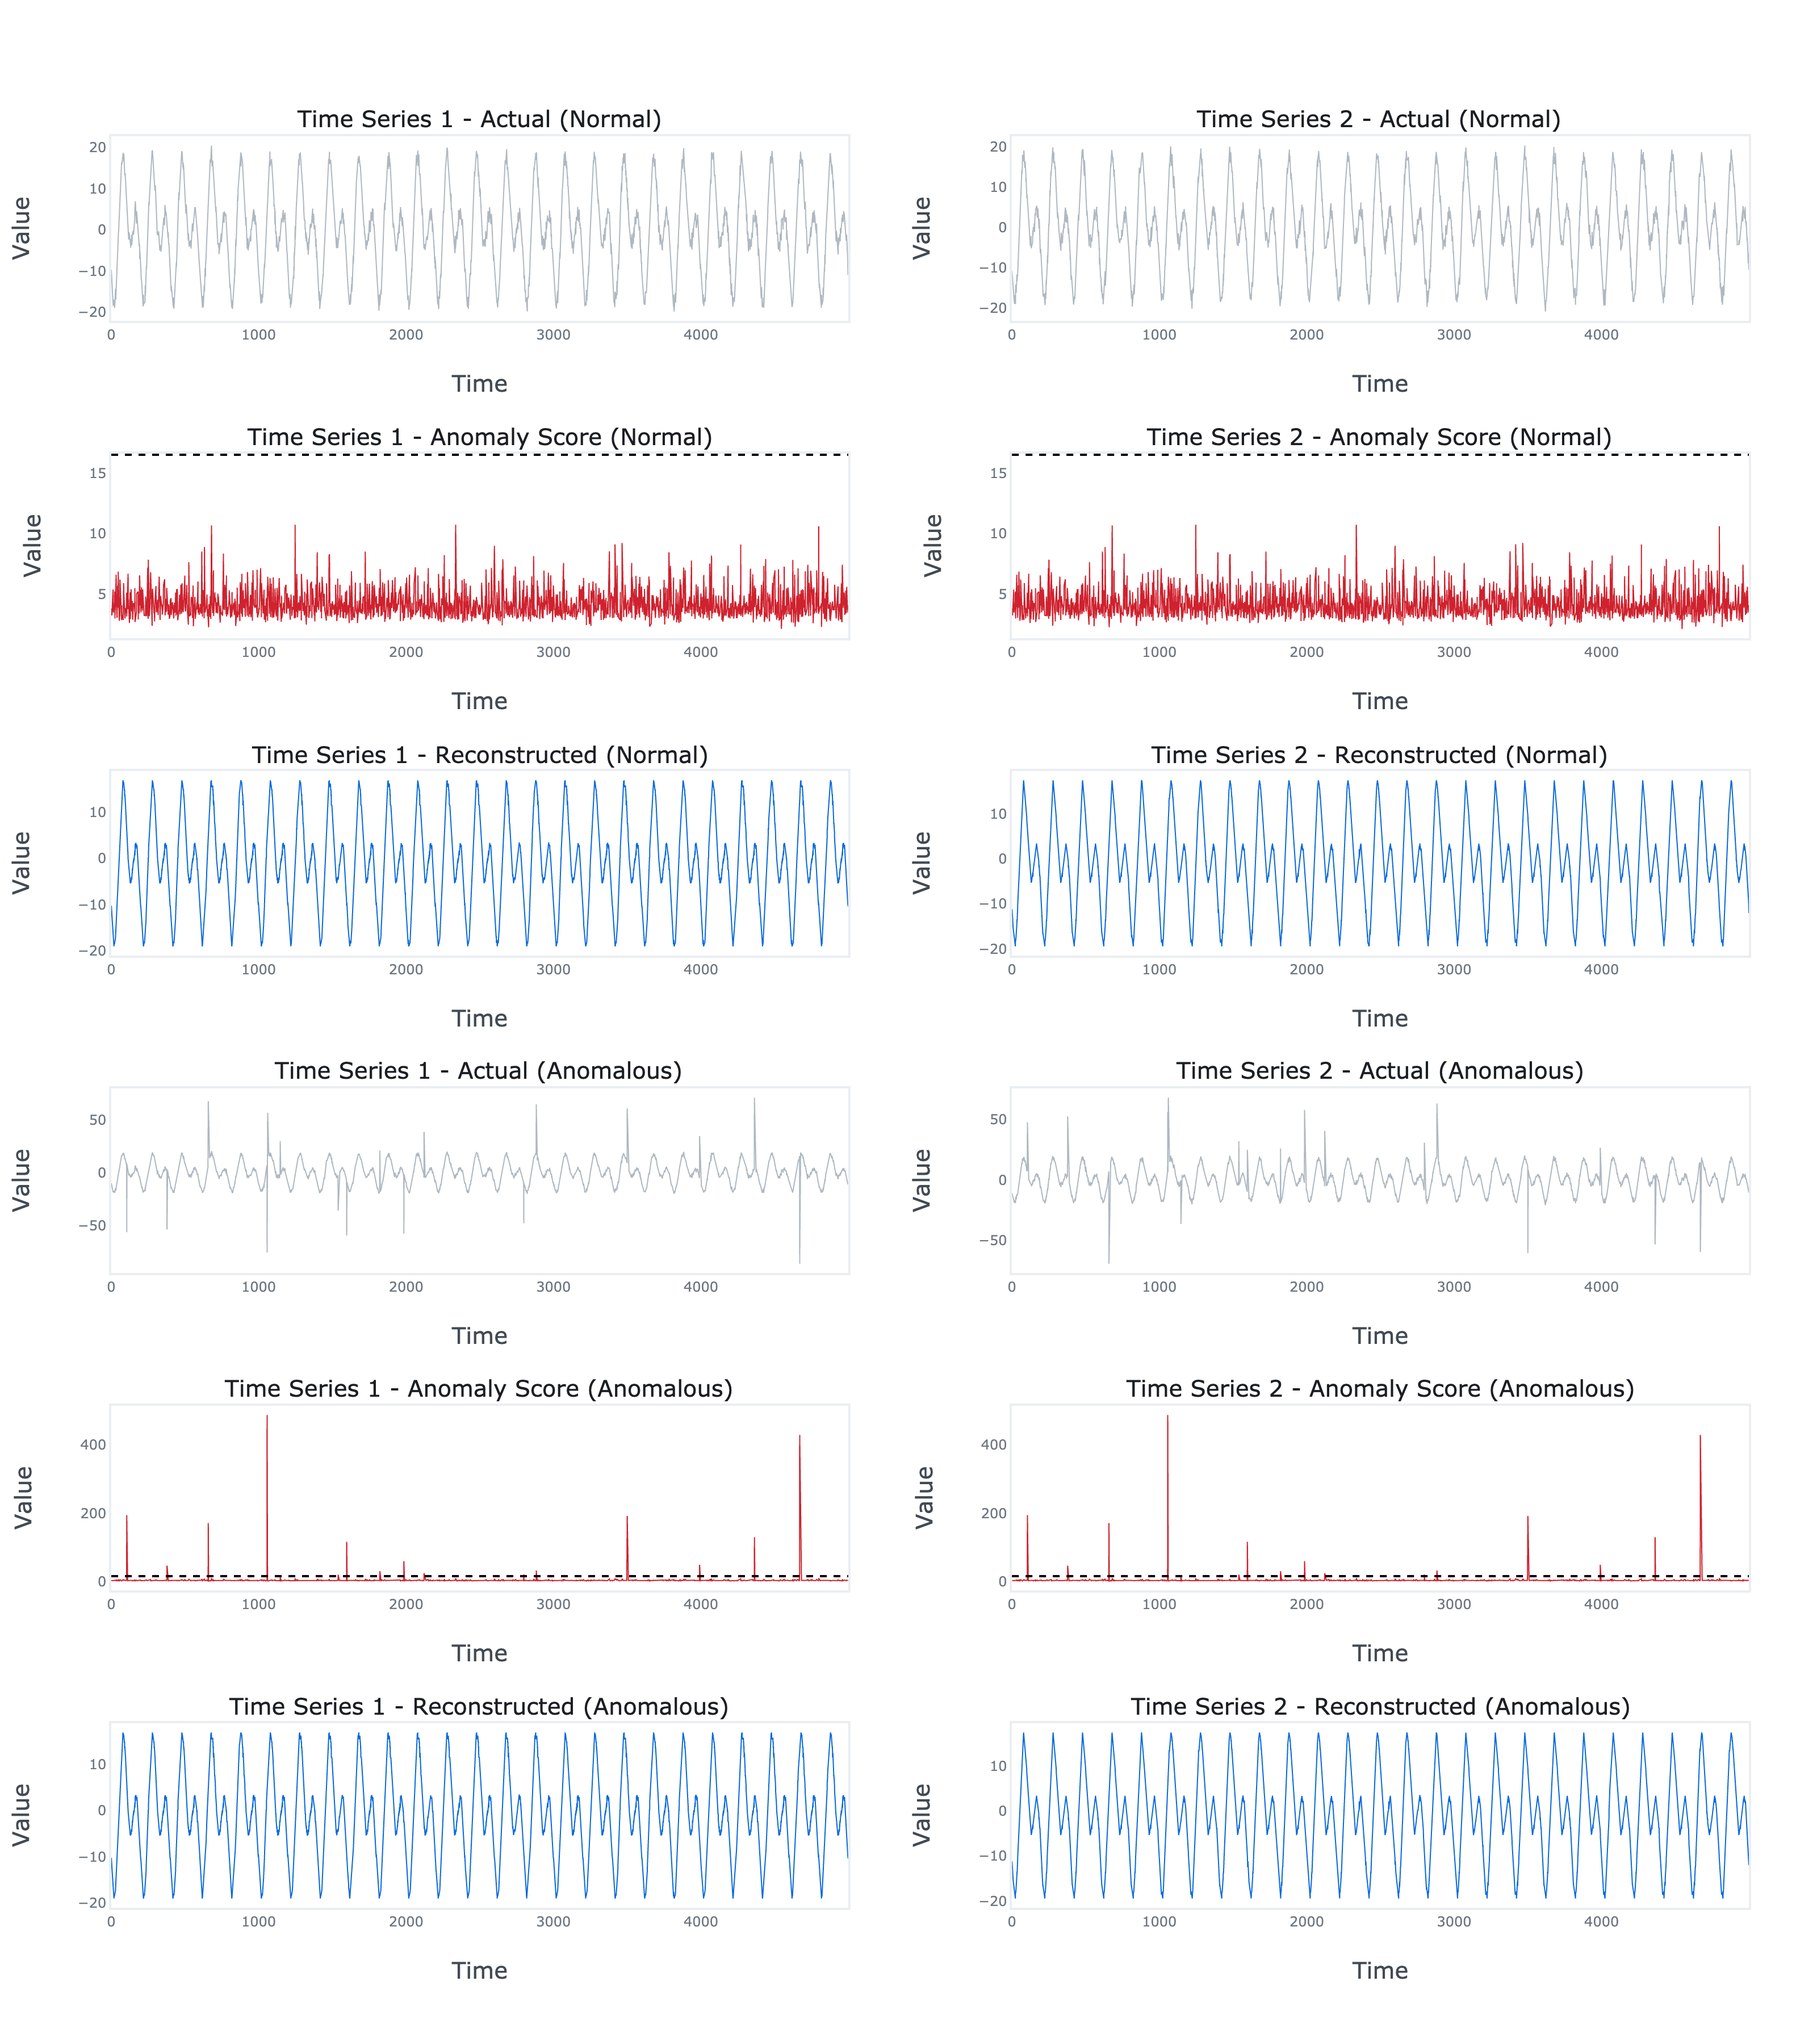
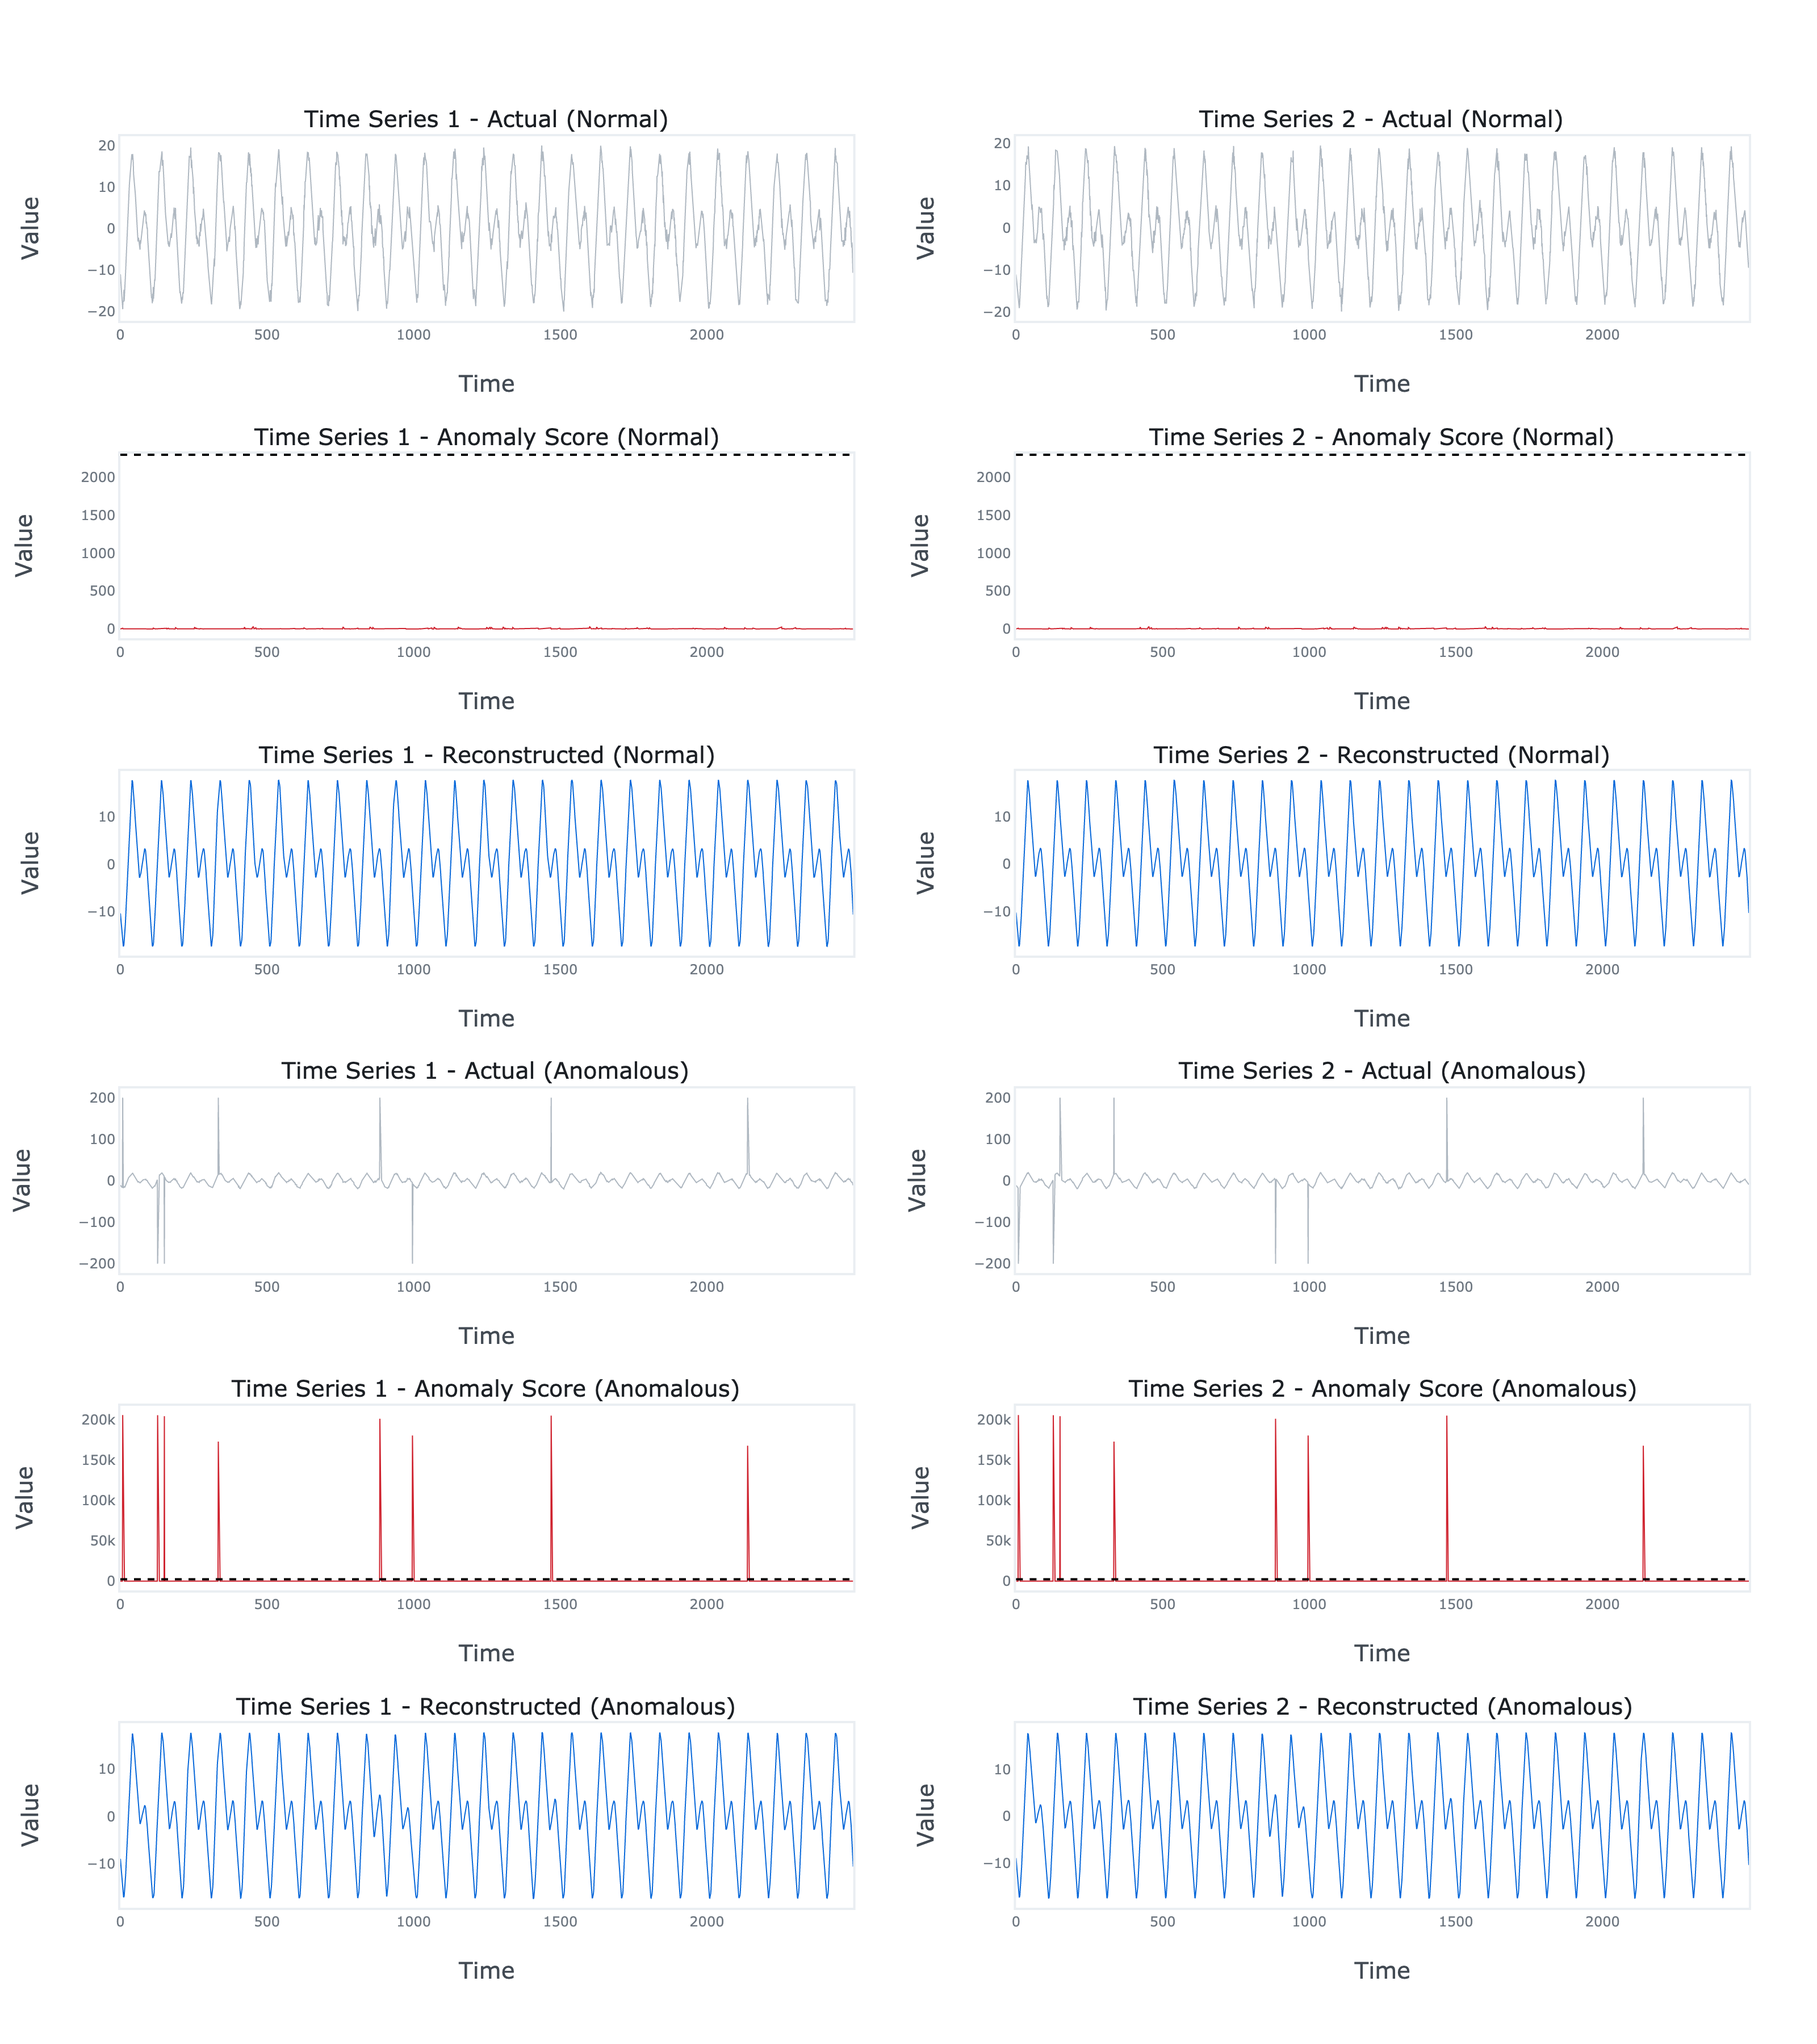
update model

diff --git a/encdec_ad_tensorflow/model.py b/encdec_ad_tensorflow/model.py
@@ -5,7 +5,7 @@ from encdec_ad_tensorflow.modules import EncoderDecoder
 
 class EncDecAD():
     
-    def __init__(self, m, L=10, c=100, beta=0.1, num=100):
+    def __init__(self, m, L=10, c=100, d=0, beta=1, num=100):
     
         '''
         Implementation of multivariate time series anomaly detection model introduced in Malhotra, P., Ramakrishnan, A.,
@@ -14,6 +14,7 @@ class EncDecAD():
         
         self.m = m
         self.c = c
+        self.d = d
         self.L = L
         self.beta = float(beta)
         self.num = num
@@ -44,8 +45,17 @@ class EncDecAD():
         x_va = tf.cast(xa, dtype=tf.float32)
         y_va = tf.cast(ya, dtype=tf.float32)
         
+        # Calculate the scaling factors.
+        x_min = tf.reduce_min(x_sn, axis=0, keepdims=True)
+        x_max = tf.reduce_max(x_sn, axis=0, keepdims=True)
+
+        # Scale the time series.
+        x_sn = (x_sn - x_min) / (x_max - x_min)
+        x_vn1 = (x_vn1 - x_min) / (x_max - x_min)
+        x_vn2 = (x_vn2 - x_min) / (x_max - x_min)
+        x_va = (x_va - x_min) / (x_max - x_min)
+        
         # Make sure that the length of the time series is a multiple of the sequence length.
-        x_sn = x_sn[:self.L * (len(x_sn) // self.L)]
         x_vn1 = x_vn1[:self.L * (len(x_vn1) // self.L)]
         x_vn2 = x_vn2[:self.L * (len(x_vn2) // self.L)]
         y_vn2 = y_vn2[:self.L * (len(y_vn2) // self.L)]
@@ -53,34 +63,25 @@ class EncDecAD():
         y_va = y_va[:self.L * (len(y_va) // self.L)]
         
         # Split the time series into sequences.
-        xs_sn = time_series_to_sequences(x_sn, L=self.L)
-        xs_vn1 = time_series_to_sequences(x_vn1, L=self.L)
-        xs_vn2 = time_series_to_sequences(x_vn2, L=self.L)
-        xs_va = time_series_to_sequences(x_va, L=self.L)
+        xs_sn = time_series_to_sequences(x_sn, L=self.L, S=1)
+        xs_vn1 = time_series_to_sequences(x_vn1, L=self.L, S=self.L)
+        xs_vn2 = time_series_to_sequences(x_vn2, L=self.L, S=self.L)
+        xs_va = time_series_to_sequences(x_va, L=self.L, S=self.L)
 
-        # Calculate the scaling factors.
-        x_min = tf.reduce_min(xs_sn, axis=0, keepdims=True)
-        x_max = tf.reduce_max(xs_sn, axis=0, keepdims=True)
-
-        # Scale the time series.
-        xs_sn = (xs_sn - x_min) / (x_max - x_min)
-        xs_vn1 = (xs_vn1 - x_min) / (x_max - x_min)
-        xs_vn2 = (xs_vn2 - x_min) / (x_max - x_min)
-        xs_va = (xs_va - x_min) / (x_max - x_min)
-        
         # Build the training dataset.
-        train_dataset = tf.data.Dataset.from_tensor_slices((xs_sn, reverse_sequences(xs_sn)))
+        train_dataset = tf.data.Dataset.from_tensor_slices((xs_sn, xs_sn))
         train_dataset = train_dataset.cache().shuffle(len(xs_sn)).batch(batch_size).prefetch(tf.data.experimental.AUTOTUNE)
 
         # Build the validation dataset.
-        valid_dataset = tf.data.Dataset.from_tensor_slices((xs_vn1, reverse_sequences(xs_vn1)))
+        valid_dataset = tf.data.Dataset.from_tensor_slices((xs_vn1, xs_vn1))
         valid_dataset = valid_dataset.batch(batch_size)
         
         # Build the model.
         model = EncoderDecoder(
-            L=self.L,
-            m=self.m,
-            c=self.c
+            L=self.L,  # input length
+            m=self.m,  # input size
+            c=self.c,  # hidden size
+            d=self.d   # dropout rate
         )
         
         # Train the model.
@@ -110,11 +111,6 @@ class EncDecAD():
         rs_vn1 = model(xs_vn1, training=False)
         rs_vn2 = model(xs_vn2, training=False)
         rs_va = model(xs_va, training=False)
-
-        # Transform the reconstructions back to the original scale.
-        rs_vn1 = x_min + (x_max - x_min) * rs_vn1
-        rs_vn2 = x_min + (x_max - x_min) * rs_vn2
-        rs_va = x_min + (x_max - x_min) * rs_va
         
         # Transform the reconstructions back to time series.
         r_vn1 = sequences_to_time_series(rs_vn1)
@@ -151,20 +147,17 @@ class EncDecAD():
     
     def predict(self, x):
         
+        # Scale the time series.
+        x = (x - self.x_min) / (self.x_max - self.x_min)
+        
         # Make sure that the length of the time series is a multiple of the sequence length.
         x = tf.cast(x[:self.L * (len(x) // self.L)], tf.float32)
         
         # Split the time series into sequences
-        xs = time_series_to_sequences(x, L=self.L)
-        
-        # Scale the sequences.
-        xs = (xs - self.x_min) / (self.x_max - self.x_min)
+        xs = time_series_to_sequences(x, L=self.L, S=self.L)
         
         # Generate the reconstructions.
         rs = self.model(xs, training=False)
-        
-        # Transform the reconstructions back to the original scale.
-        rs = self.x_min + (self.x_max - self.x_min) * rs
         
         # Transform the reconstructions back to time series.
         r = sequences_to_time_series(rs)
@@ -172,6 +165,9 @@ class EncDecAD():
         # Calculate the reconstruction errors.
         e = tf.math.abs(x - r)
 
+        # Transform the reconstructions back to the original scale.
+        r = self.x_min + (self.x_max - self.x_min) * r
+        
         # Calculate the anomaly scores.
         a = get_anomaly_scores(e, self.mu, self.sigma)
         
@@ -181,19 +177,14 @@ class EncDecAD():
         return r, a, y
 
 
-def time_series_to_sequences(x, L):
+def time_series_to_sequences(x, L, S):
     # Split the time series into sequences.
-    return tf.concat([tf.expand_dims(x[i - L: i], axis=0) for i in range(L, L * (len(x) // L) + L, L)], axis=0)
+    return tf.concat([tf.expand_dims(x[i - L: i], axis=0) for i in range(L, len(x) + S, S)], axis=0)
 
 
 def sequences_to_time_series(x):
     # Transform the sequences back to time series.
-    return tf.concat([x[i] for i in range(len(x))], axis=0)
-
-
-def reverse_sequences(x):
-    # Reverse the order of the sequences.
-    return tf.reverse(x, axis=[1])
+    return tf.reshape(x, (x.shape[0] * x.shape[1], x.shape[2]))
 
 
 def get_anomaly_scores(x, mu, sigma):

diff --git a/example/example.py b/example/example.py
@@ -5,10 +5,11 @@ from encdec_ad_tensorflow.model import EncDecAD
 from encdec_ad_tensorflow.plots import plot
 
 m = 2             # Number of time series.
-N = 10000         # Length of each time series.
+N = 5000          # Length of each time series.
 train_size = 0.5  # Fraction of observations to use for training.
 
 # Generate the normal time series.
+np.random.seed(42)
 t = np.linspace(0, 1, N).reshape(-1, 1)
 c = np.cos(2 * np.pi * (50 * t - 0.5))
 s = np.sin(2 * np.pi * (100 * t - 0.5))
@@ -17,11 +18,9 @@ xn = 10 * c + 10 * s + np.random.normal(size=(N, m))
 # Generate the anomalous time series.
 xa = xn.copy()
 ya = np.zeros(N)
-for j in range(N):
-    if np.random.uniform() > 0.997:
-        xa[j, :] += np.random.randint(low=30, high=70, size=m)
-        xa[j, :] *= np.random.choice([-1, 1], size=m)
-        ya[j] = 1
+for j in np.random.randint(low=20, high=N - 20, size=20):
+    xa[j, :] = np.random.choice([-200, 200], size=m)
+    ya[j] = 1
 
 # Split the time series.
 xn_train, xn_test = xn[:int(train_size * len(xn))], xn[int(train_size * len(xn)):]
@@ -30,20 +29,20 @@ ya_train, ya_test = ya[:int(train_size * len(ya))], ya[int(train_size * len(ya))
 
 # Fit the model.
 model = EncDecAD(
-    m=m,          # Number of time series.
-    L=200,        # Number of time steps.
-    c=64,         # Number of hidden units.
-    beta=1        # F-score beta.
+    m=m,       # Number of time series.
+    L=100,     # Number of time steps.
+    c=64,      # Number of hidden units.
+    d=0.3,     # Dropout rate.
 )
 
 model.fit(
     xn_train,
     xa_train,
     ya_train,
-    learning_rate=0.0001,
-    batch_size=32,
-    max_epochs=100,
-    early_stopping_start_epoch=10,
+    learning_rate=0.001,
+    batch_size=128,
+    max_epochs=300,
+    early_stopping_start_epoch=100,
     early_stopping_patience=10,
     verbose=1
 )

diff --git a/encdec_ad_tensorflow/modules.py b/encdec_ad_tensorflow/modules.py
@@ -2,11 +2,11 @@ import tensorflow as tf
 
 class EncoderDecoder(tf.keras.models.Model):
     
-    def __init__(self, L, m, c):
+    def __init__(self, L, m, c, d):
         super().__init__()
 
-        self.encoder = tf.keras.layers.LSTM(units=c, return_state=True)
-        self.decoder = tf.keras.layers.LSTMCell(units=c)
+        self.encoder = tf.keras.layers.LSTM(units=c, dropout=d, return_state=True)
+        self.decoder = tf.keras.layers.LSTMCell(units=c, dropout=d)
         self.outputs = tf.keras.layers.Dense(units=m)
 
         self.L = L
@@ -14,6 +14,9 @@ class EncoderDecoder(tf.keras.models.Model):
         self.c = c
     
     def call(self, inputs, training=True):
+        
+        self.decoder.reset_dropout_mask()
+        self.decoder.reset_recurrent_dropout_mask()
         
         _, he, ce = self.encoder(inputs)
     
@@ -34,6 +37,7 @@ class EncoderDecoder(tf.keras.models.Model):
         )
     
         for t in tf.range(start=self.L - 2, limit=-1, delta=-1):
+                
             _, [hd, cd] = self.decoder(
                 inputs=inputs[:, t + 1, :] if training else r.read(index=t + 1),
                 states=[hd, cd],

diff --git a/README.MD b/README.MD
@@ -23,10 +23,11 @@ from encdec_ad_tensorflow.model import EncDecAD
 from encdec_ad_tensorflow.plots import plot
 
 m = 2             # Number of time series.
-N = 10000         # Length of each time series.
+N = 5000          # Length of each time series.
 train_size = 0.5  # Fraction of observations to use for training.
 
 # Generate the normal time series.
+np.random.seed(42)
 t = np.linspace(0, 1, N).reshape(-1, 1)
 c = np.cos(2 * np.pi * (50 * t - 0.5))
 s = np.sin(2 * np.pi * (100 * t - 0.5))
@@ -35,11 +36,9 @@ xn = 10 * c + 10 * s + np.random.normal(size=(N, m))
 # Generate the anomalous time series.
 xa = xn.copy()
 ya = np.zeros(N)
-for j in range(N):
-    if np.random.uniform() > 0.997:
-        xa[j, :] += np.random.randint(low=30, high=70, size=m)
-        xa[j, :] *= np.random.choice([-1, 1], size=m)
-        ya[j] = 1
+for j in np.random.randint(low=20, high=N - 20, size=20):
+    xa[j, :] = np.random.choice([-200, 200], size=m)
+    ya[j] = 1
 
 # Split the time series.
 xn_train, xn_test = xn[:int(train_size * len(xn))], xn[int(train_size * len(xn)):]
@@ -48,20 +47,20 @@ ya_train, ya_test = ya[:int(train_size * len(ya))], ya[int(train_size * len(ya))
 
 # Fit the model.
 model = EncDecAD(
-    m=m,          # Number of time series.
-    L=200,        # Number of time steps.
-    c=64,         # Number of hidden units.
-    beta=1        # F-score beta.
+    m=m,       # Number of time series.
+    L=100,     # Number of time steps.
+    c=64,      # Number of hidden units.
+    d=0.3,     # Dropout rate.
 )
 
 model.fit(
     xn_train,
     xa_train,
     ya_train,
-    learning_rate=0.0001,
-    batch_size=32,
-    max_epochs=100,
-    early_stopping_start_epoch=10,
+    learning_rate=0.001,
+    batch_size=128,
+    max_epochs=300,
+    early_stopping_start_epoch=100,
     early_stopping_patience=10,
     verbose=1
 )
